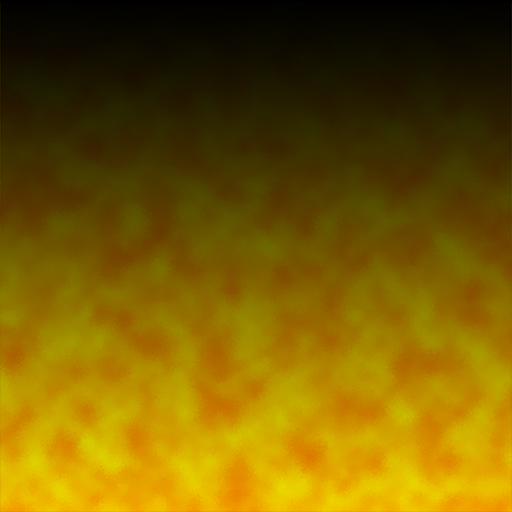
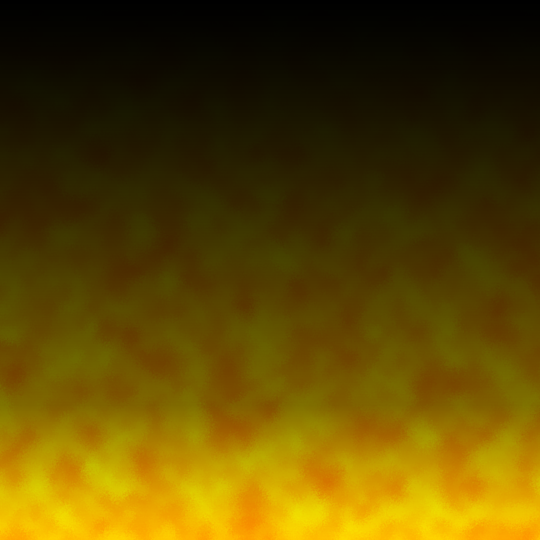
WIP

diff --git a/src/object/skybox.cc b/src/object/skybox.cc
@@ -8,9 +8,9 @@ static const int vertexSize = wallSize + floorSize;
 static const float radius = 40.0f;
 static const float heightScale = 1.0f;
 static const float height = radius * M_PI * 2.0f * heightScale;
-static const float uvScale = 10.0f;
+static const float uvScale = 20.0f;
 
-static const float wallMaterial[]  = { 1.0f, 0.5f, 0.5f, 100.0f };
+static const float wallMaterial[]  = { 1.0f, 0.5f, 0.8f, 100.0f };
 static const float floorMaterial[] = { 0.0f, 0.0f, 1.0f, 1.0f };
 
 static Vertex vertices[vertexSize];
@@ -101,7 +101,6 @@ public:
     void render() {
         bindProgram();
 
-        glEnable(GL_DEPTH_TEST);
         glEnable(GL_CULL_FACE);
         glCullFace(GL_BACK);
 
@@ -135,7 +134,6 @@ public:
         glDrawArrays(GL_TRIANGLES, 0, wallSize);
 
         glDisable(GL_CULL_FACE);
-        glDisable(GL_DEPTH_TEST);
     }
 };
 

diff --git a/src/scene/scene1.cc b/src/scene/scene1.cc
@@ -20,9 +20,9 @@ public:
     void setup() {
         Transformer *transform = ObjectBox::danmakuTransform(this);
         objects.push_back(ObjectBox::skybox(this));
-        objects.push_back(transform);
-        // objects.push_back(ObjectBox::danmaku(this, transform));
         objects.push_back(ObjectBox::character(this, Model::reimu()));
+        objects.push_back(transform);
+        objects.push_back(ObjectBox::danmaku(this, transform));
 
         Scene::setup();
 
@@ -34,6 +34,8 @@ public:
         verticalAngle = 0.0f;
         fov = 45.0f;
         Application::setCursor(centerX, centerY);
+
+        glEnable(GL_DEPTH_TEST);
     }
 
     void render() {

diff --git a/src/object/danmaku.cc b/src/object/danmaku.cc
@@ -35,7 +35,6 @@ public:
 
         glEnable(GL_BLEND);
         glBlendFunc(GL_ONE, GL_ONE_MINUS_SRC_ALPHA);
-        glEnable(GL_DEPTH_TEST);
         glDepthMask(GL_FALSE);
 
         glUniformMatrix4fv(uniform[0], 1, GL_FALSE, &scene -> vMat()[0][0]);
@@ -50,7 +49,6 @@ public:
 
         glDisable(GL_BLEND);
         glDepthMask(GL_TRUE);
-        glDisable(GL_DEPTH_TEST);
     }
 };
 

diff --git a/src/object/character.cc b/src/object/character.cc
@@ -59,8 +59,6 @@ public:
     void render() {
         bindProgram();
 
-        glEnable(GL_DEPTH_TEST);
-
         mat4 mMat(1.0f);
         swap(mMat[1], mMat[2]);
         mMat = scale(vec3(0.1f, 0.1f, 0.1f)) * mMat;
@@ -94,8 +92,6 @@ public:
 
             sum += material.count;
         }
-
-        glDisable(GL_DEPTH_TEST);
     }
 };
 
